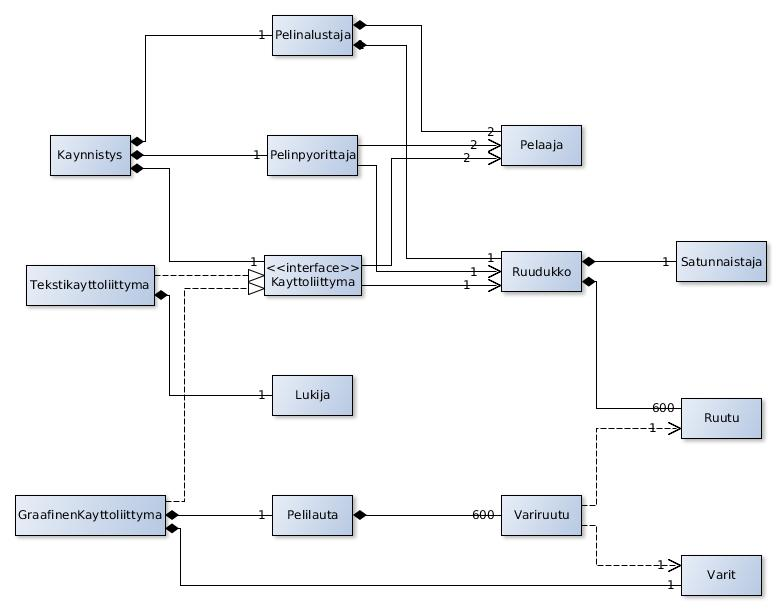
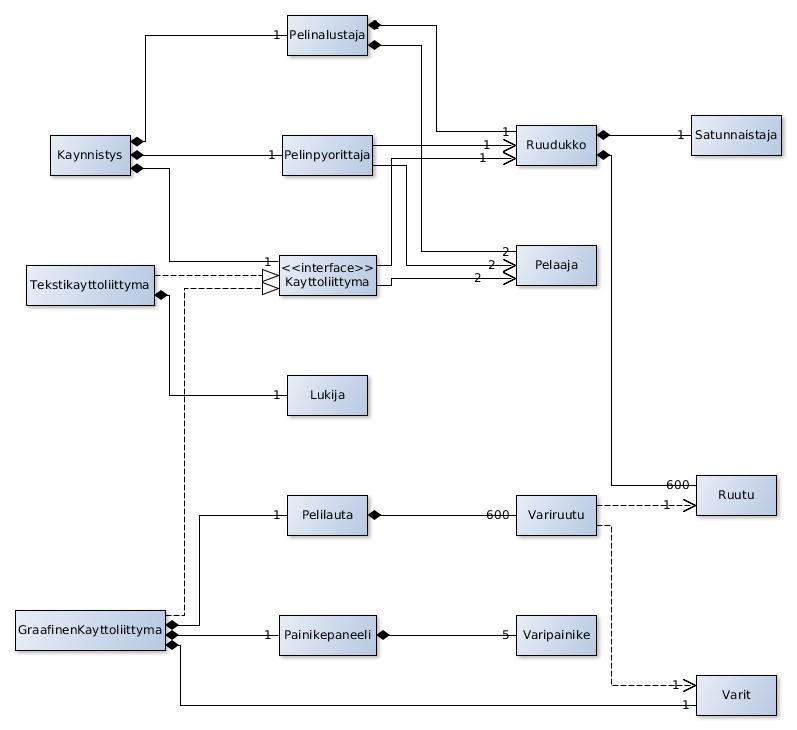
painikepaneeli aloitettu, luokkakaaviota päivitetty

Changed region(s): [[0.0, 0.0, 1.0, 0.9656], [0.8286, 0.3738, 1.0, 0.4672], [0.7673, 0.9033, 0.9821, 0.9967]]

diff --git a/Varivaltaus/src/main/java/varivaltaus/varivaltaus/kayttoliittyma/graafinen/GraafinenKayttoliittyma.java b/Varivaltaus/src/main/java/varivaltaus/varivaltaus/kayttoliittyma/graafinen/GraafinenKayttoliittyma.java
@@ -5,6 +5,7 @@
  */
 package varivaltaus.varivaltaus.kayttoliittyma.graafinen;
 
+import java.awt.BorderLayout;
 import java.awt.Container;
 import java.awt.Dimension;
 import java.util.List;
@@ -19,12 +20,15 @@ import varivaltaus.varivaltaus.pelilogiikka.Ruudukko;
  */
 public class GraafinenKayttoliittyma implements Kayttoliittyma, Runnable {
 
+    private final Ruudukko ruudukko;
+    private final Varit varit;
     private JFrame frame;
     private Pelilauta pelilauta;
-    private final Ruudukko ruudukko;
+    private Painikepaneeli painikepaneeli;
 
     public GraafinenKayttoliittyma(Ruudukko r) {
         this.ruudukko = r;
+        this.varit = new Varit();
     }
 
     @Override
@@ -41,22 +45,25 @@ public class GraafinenKayttoliittyma implements Kayttoliittyma, Runnable {
     }
 
     private void luoKomponentit(Container contentPane) {
-        Varit varit = new Varit();
-        this.pelilauta = new Pelilauta(this.ruudukko, varit);
+        contentPane.setLayout(new BoxLayout(contentPane, BoxLayout.Y_AXIS));
+        this.pelilauta = new Pelilauta(this.ruudukko, this.varit);
         contentPane.add(this.pelilauta);
+
+        this.painikepaneeli = new Painikepaneeli(this.ruudukko, this.varit);
+        contentPane.add(this.painikepaneeli);
     }
 
     public JFrame getFrame() {
         return frame;
     }
-    
+
     public JPanel getPelilauta() {
         return this.pelilauta;
     }
 
     @Override
     public int kysyVari(List<Integer> varivaihtoehdot, Pelaaja keneltaKysytaan) {
-        throw new UnsupportedOperationException("Ei ole tehty vielä."); 
+        return this.painikepaneeli.kysyVari(varivaihtoehdot);
     }
 
     //Tällä hetkellä pelilauta ei päivity, ellei ikkunaa vedä välillä hiirellä erikokoiseksi.
@@ -69,7 +76,7 @@ public class GraafinenKayttoliittyma implements Kayttoliittyma, Runnable {
 
     @Override
     public void julistaVoittaja(Pelaaja voittaja) {
-        throw new UnsupportedOperationException("Ei ole tehty vielä."); 
+        throw new UnsupportedOperationException("Ei ole tehty vielä.");
     }
 
 }

diff --git a/Varivaltaus/src/main/java/varivaltaus/varivaltaus/kayttoliittyma/graafinen/Painikepaneeli.java b/Varivaltaus/src/main/java/varivaltaus/varivaltaus/kayttoliittyma/graafinen/Painikepaneeli.java
@@ -1,0 +1,48 @@
+/*
+ * To change this license header, choose License Headers in Project Properties.
+ * To change this template file, choose Tools | Templates
+ * and open the template in the editor.
+ */
+package varivaltaus.varivaltaus.kayttoliittyma.graafinen;
+
+import java.awt.GridLayout;
+import java.util.HashMap;
+import java.util.List;
+import javax.swing.JButton;
+import javax.swing.JPanel;
+import varivaltaus.varivaltaus.pelilogiikka.Ruudukko;
+
+/**
+ *
+ * @author juma
+ */
+public class Painikepaneeli extends JPanel {
+
+    private final HashMap<Integer, Varipainike> varipainikkeet;
+
+    public Painikepaneeli(Ruudukko r, Varit v) {
+        setLayout(new GridLayout(1, r.getVariLkm() - 2));
+
+        this.varipainikkeet = new HashMap<>();
+
+        for (int i = 1; i <= r.getVariLkm(); i++) {
+            Varipainike uusi = new Varipainike(i, v);
+            this.varipainikkeet.put(i, uusi);
+            this.add(uusi);
+        }
+    }
+
+    public int kysyVari(List<Integer> varivaihtoehdot) {
+        this.removeAll();
+        
+        for(int vari: varivaihtoehdot) {
+            this.add(varipainikkeet.get(vari));
+        }
+        
+        this.revalidate();
+        this.repaint();
+        
+        return 1; //VAIHDA LOPUKSI
+    }
+
+}

diff --git a/Varivaltaus/src/main/java/varivaltaus/varivaltaus/kayttoliittyma/graafinen/Varipainike.java b/Varivaltaus/src/main/java/varivaltaus/varivaltaus/kayttoliittyma/graafinen/Varipainike.java
@@ -1,0 +1,25 @@
+/*
+ * To change this license header, choose License Headers in Project Properties.
+ * To change this template file, choose Tools | Templates
+ * and open the template in the editor.
+ */
+package varivaltaus.varivaltaus.kayttoliittyma.graafinen;
+
+import javax.swing.JButton;
+
+/**
+ *
+ * @author juma
+ */
+public class Varipainike extends JButton{
+    private final int vari;
+    private final Varit varit;
+    
+    public Varipainike(int vari, Varit varit) {
+        this.vari=vari;
+        this.varit=varit;
+        this.setBackground(this.varit.getVari(vari));
+        
+        //lisää actionlistener tähän vai paneeliin
+    }
+}

diff --git a/Varivaltaus/src/main/java/varivaltaus/varivaltaus/kayttoliittyma/graafinen/Variruutu.java b/Varivaltaus/src/main/java/varivaltaus/varivaltaus/kayttoliittyma/graafinen/Variruutu.java
@@ -18,7 +18,7 @@ public class Variruutu extends JPanel {
     private final Varit varit;
     private final Ruutu ruutu;
 
-    Variruutu(Ruutu r, Varit v) {
+    public Variruutu(Ruutu r, Varit v) {
         this.varit = v;
         this.ruutu = r;
     }

diff --git a/Varivaltaus/src/main/java/varivaltaus/varivaltaus/kayttoliittyma/graafinen/Pelilauta.java b/Varivaltaus/src/main/java/varivaltaus/varivaltaus/kayttoliittyma/graafinen/Pelilauta.java
@@ -41,5 +41,8 @@ public class Pelilauta extends JPanel {
             v.revalidate();
             v.repaint();
         }
+        
+        this.revalidate();
+        this.repaint();
       }
 }
